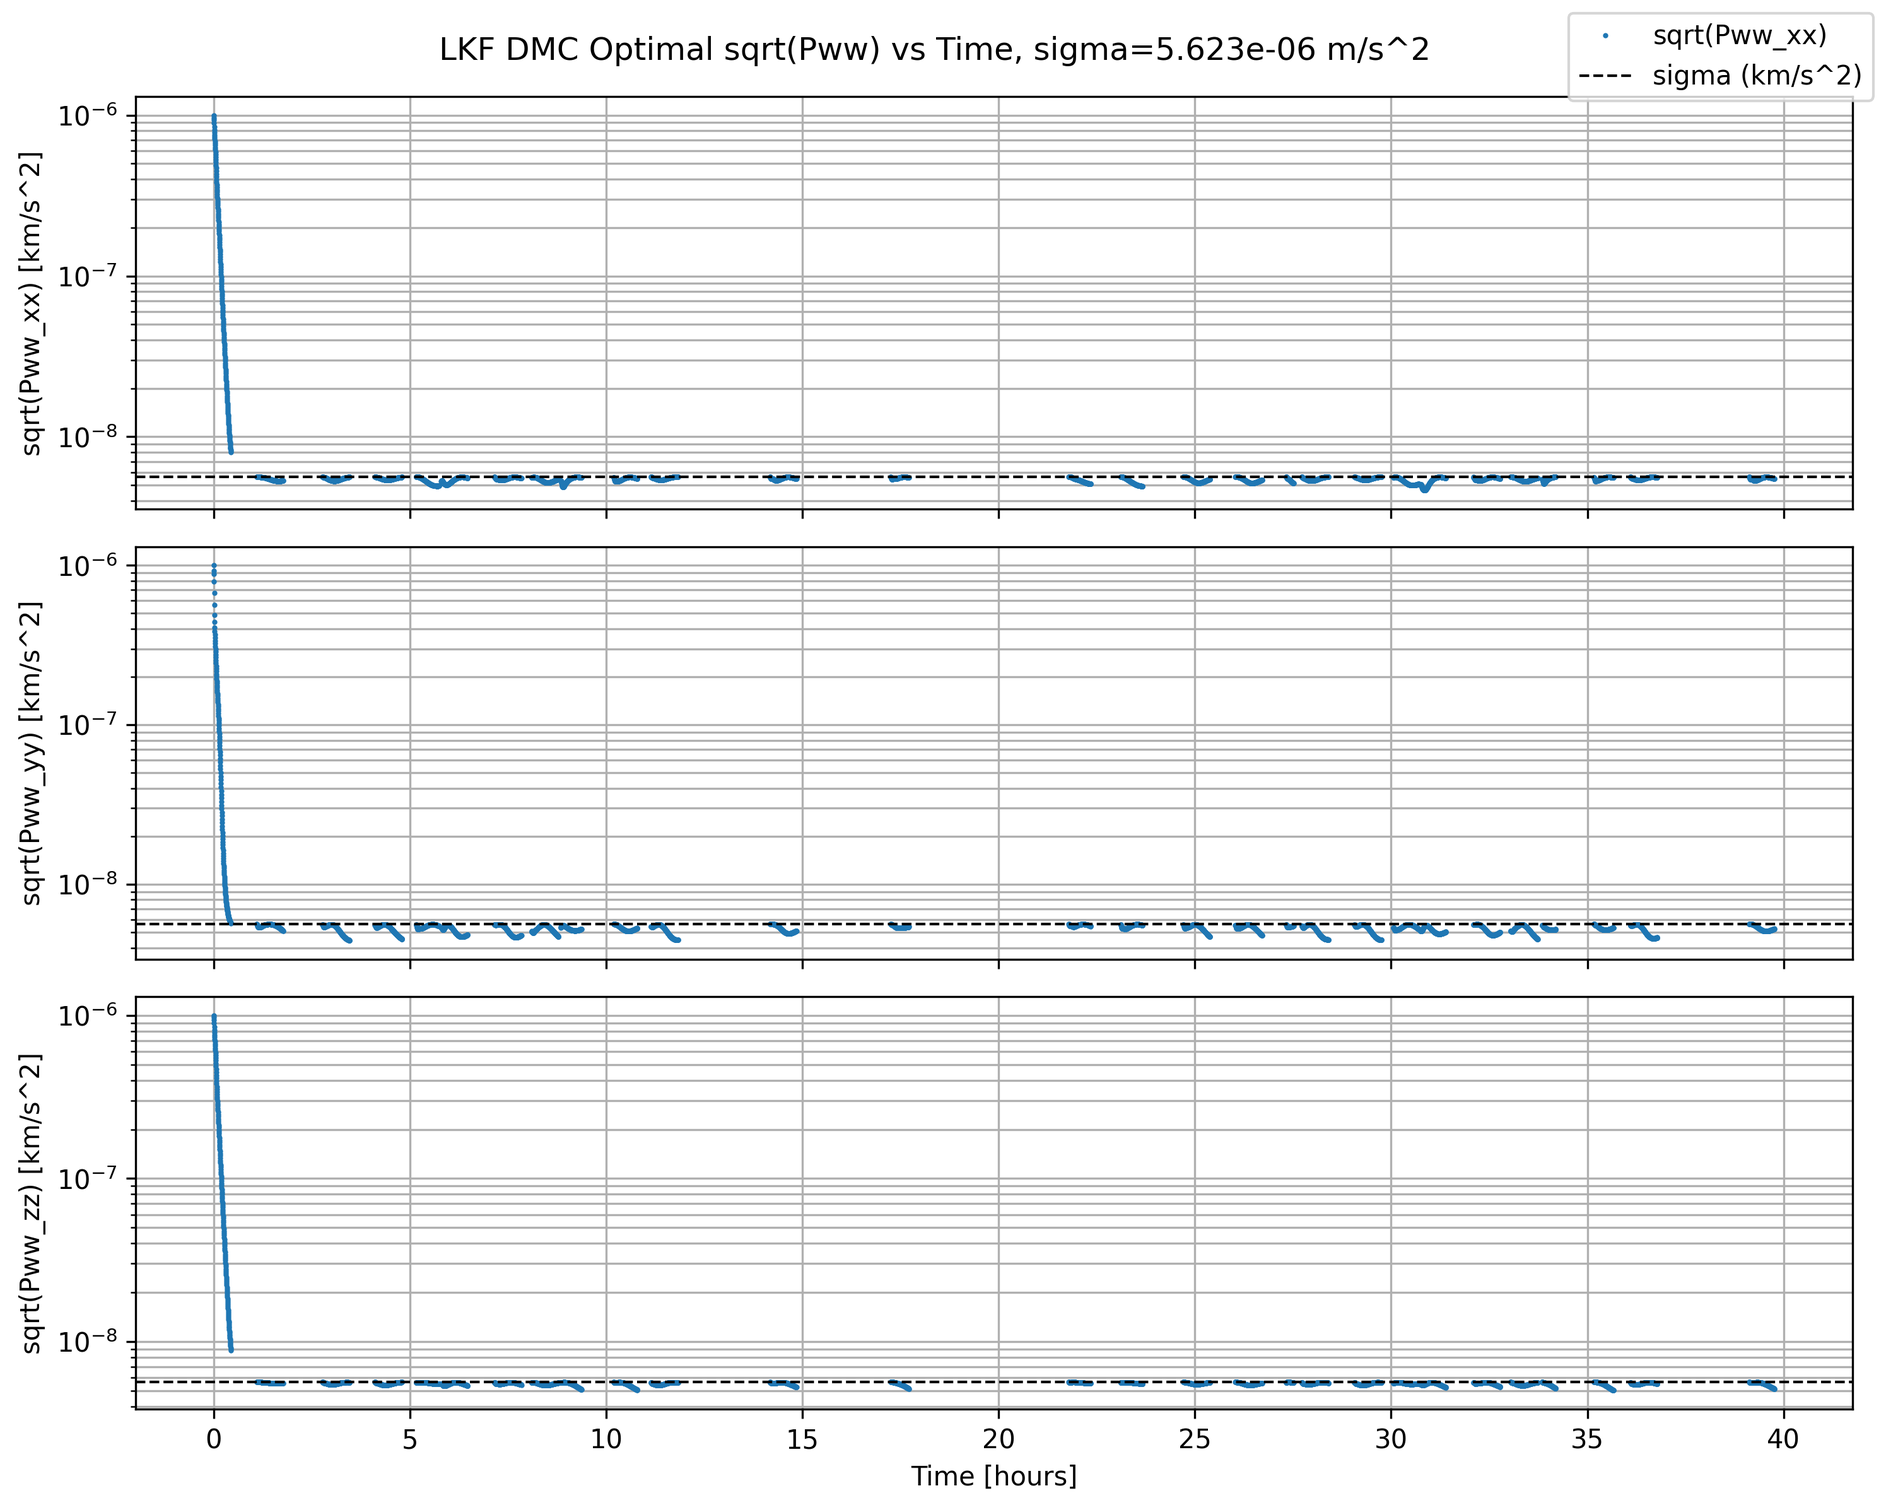
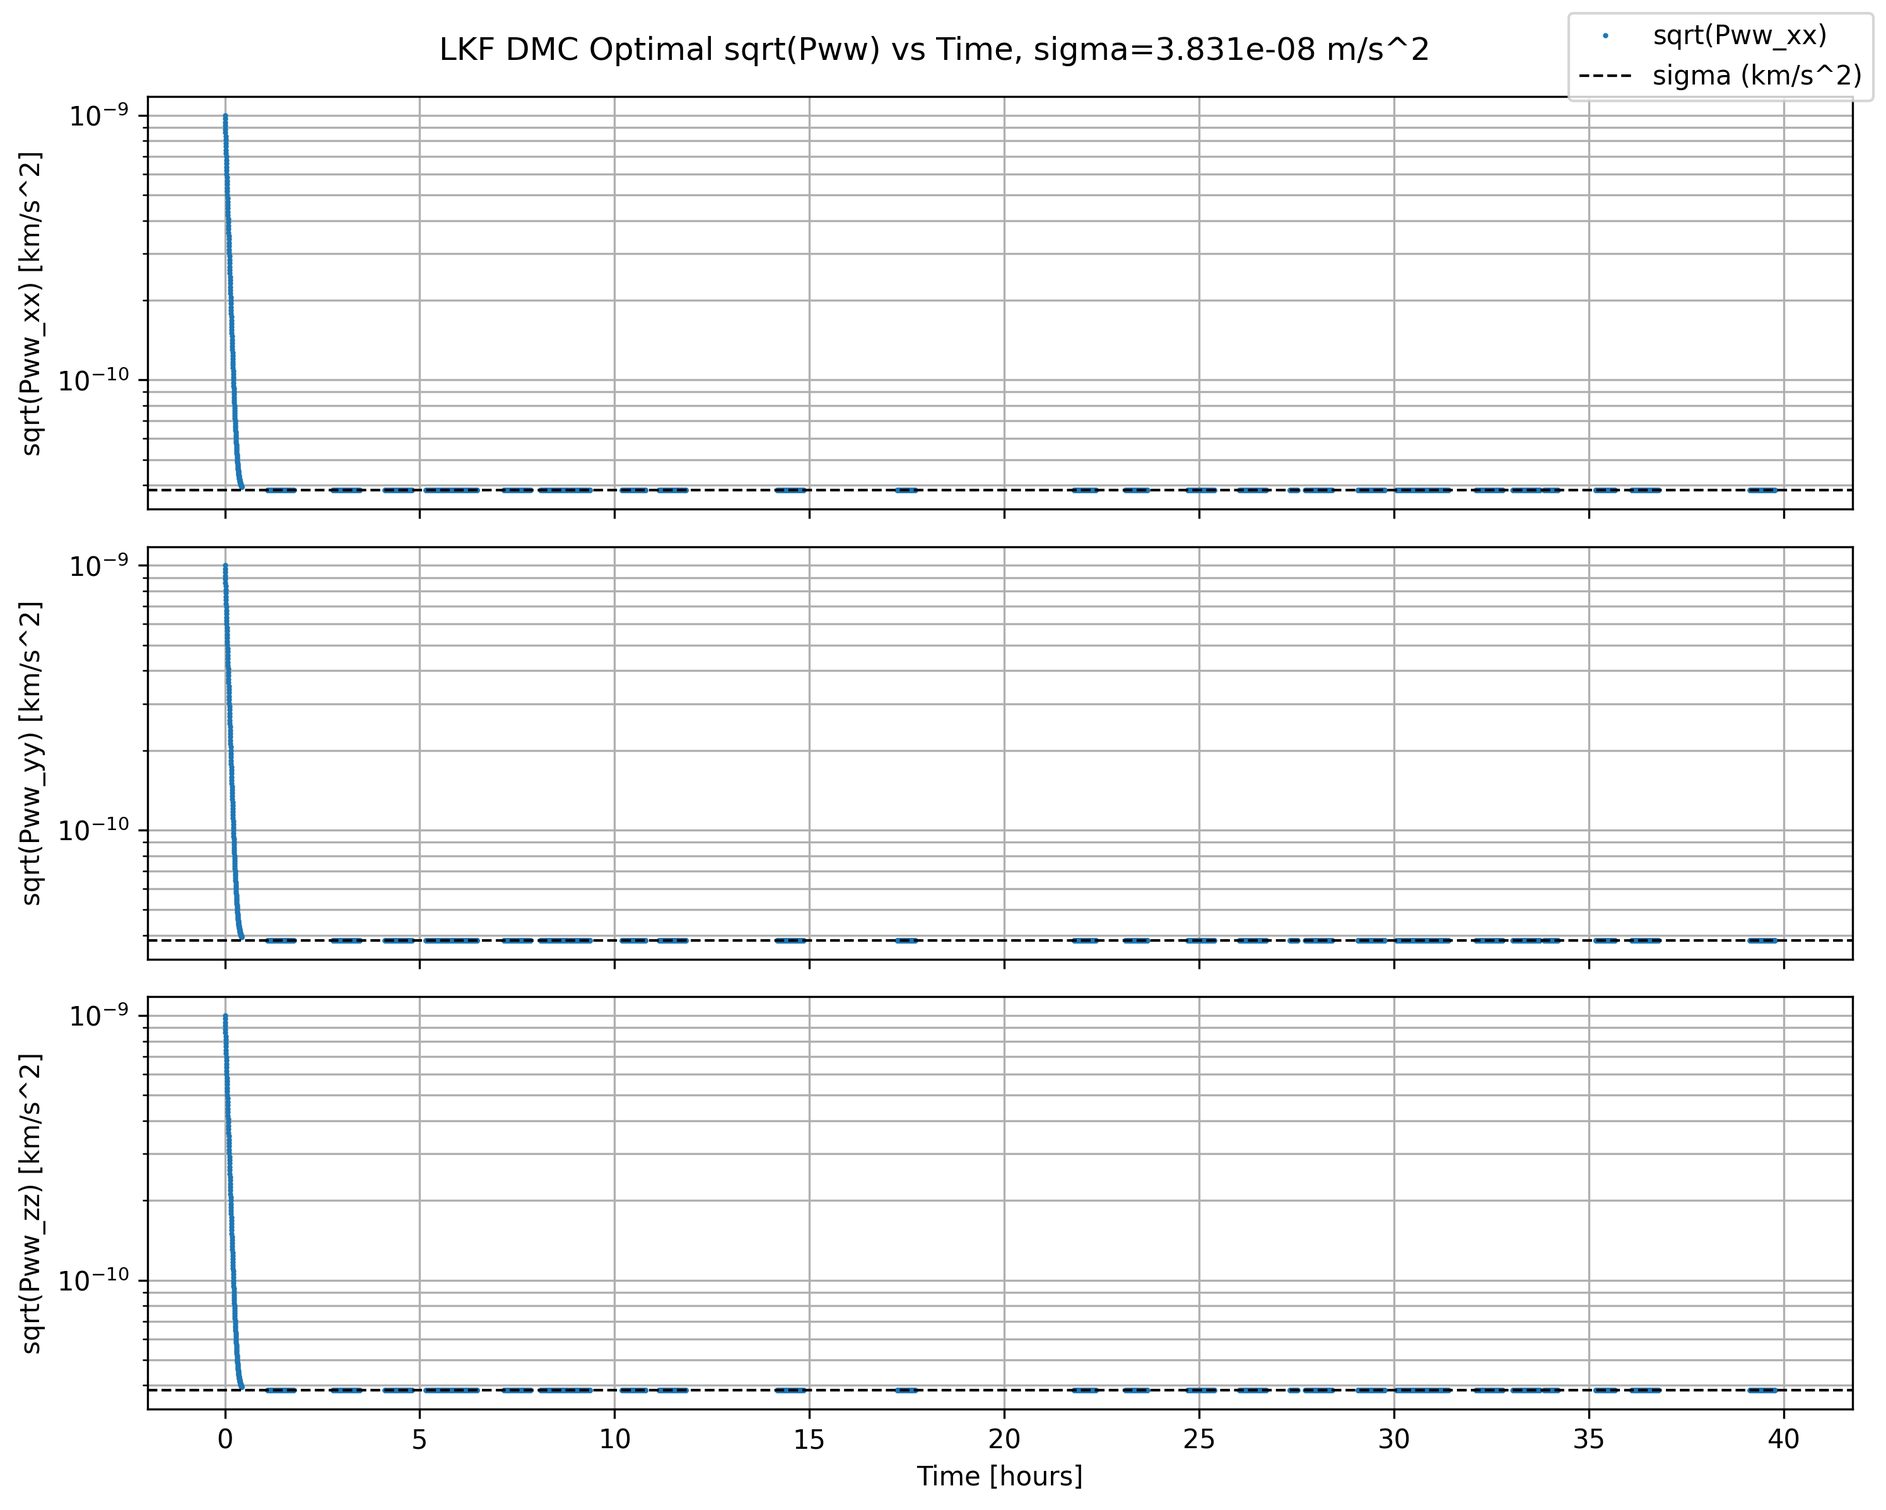
EKF be lookin noisy dawg

Changed region(s): [[0.0311, 0.3709, 0.9953, 0.9891], [0.0311, 0.0618, 0.9953, 0.34]]

diff --git a/Homework/Homework3/ekf_dmc.py b/Homework/Homework3/ekf_dmc.py
@@ -10,6 +10,7 @@ import pandas as pd
 sys.path.append("../../")
 
 from src.Functions.dmc import ekf_with_dmc
+from src.Functions.jacobians import accel_wJ2J3
 from src.Functions.kep2cart import Keplarian_to_Cartesian
 from src.Functions.stations import Stations
 
@@ -65,19 +66,6 @@ def load_problem2_inputs(mu_km3_s2: float):
         Xtrue_meas = truth_aligned[["x_km", "y_km", "z_km", "vx_km_s", "vy_km_s", "vz_km_s"]].to_numpy(float)
     else:
         Xtrue_meas = np.column_stack([np.interp(t_meas, truth_times, truth_states[:, k]) for k in range(6)])
-
-    # Match HW2 problem setup.
-    r0_true, v0_true, _ = Keplarian_to_Cartesian(
-        mu_km3_s2,
-        10000.0,
-        0.001,
-        40.0,
-        80.0,
-        40.0,
-        0.0,
-    )
-    x0_true = np.hstack((r0_true, v0_true))
-
     stations = build_stations()
 
     sigma_rho_km = 1.0e-3
@@ -102,6 +90,8 @@ def load_problem2_inputs(mu_km3_s2: float):
     )
 
     dx = np.array([0.1, -0.03, 0.25, 0.3e-3, -0.5e-3, 0.2e-3], dtype=float)
+    x0_true = truth_states[0, :]
+
     x0_hat = x0_true + dx
 
     return all_meas, Xtrue_meas, stations, R, P0, x0_hat, x0_true
@@ -115,6 +105,50 @@ def initial_orbit_period_s(x0_6: np.ndarray, mu_km3_s2: float) -> float:
     eps = 0.5 * vmag * vmag - float(mu_km3_s2) / rmag
     a = -float(mu_km3_s2) / (2.0 * eps)
     return float(2.0 * np.pi * np.sqrt(a**3 / float(mu_km3_s2)))
+
+
+def compute_w_ref_from_truth(Xtrue_meas: np.ndarray, mu: float, J2: float, J3: float, Re: float = 6378.0) -> np.ndarray:
+    Xtrue_meas = np.asarray(Xtrue_meas, dtype=float)
+    w_ref = np.zeros((Xtrue_meas.shape[0], 3), dtype=float)
+    for k in range(Xtrue_meas.shape[0]):
+        r = Xtrue_meas[k, 0:3]
+        a_truth = accel_wJ2J3(r, mu, J2, J3, Re=Re, j2=True, j3=True)
+        a_filter = accel_wJ2J3(r, mu, J2, 0.0, Re=Re, j2=True, j3=False)
+        w_ref[k, :] = a_truth - a_filter
+    return w_ref
+
+
+def load_w_ref_from_csv(csv_path: Path, t_target: np.ndarray) -> np.ndarray | None:
+    if not csv_path.exists():
+        return None
+    df = pd.read_csv(csv_path)
+    if df.empty:
+        return None
+
+    time_candidates = ["t_s", "t", "time_s", "time", "Time(s)"]
+    comp_candidates = [
+        ["wx_km_s2", "wy_km_s2", "wz_km_s2"],
+        ["w_x_km_s2", "w_y_km_s2", "w_z_km_s2"],
+        ["wx", "wy", "wz"],
+        ["w_x", "w_y", "w_z"],
+        ["ax_km_s2", "ay_km_s2", "az_km_s2"],
+        ["ax", "ay", "az"],
+    ]
+
+    t_col = next((c for c in time_candidates if c in df.columns), None)
+    if t_col is None:
+        return None
+    comp_cols = next((cols for cols in comp_candidates if all(c in df.columns for c in cols)), None)
+    if comp_cols is None:
+        return None
+
+    t_src = df[t_col].to_numpy(float)
+    w_src = df[comp_cols].to_numpy(float)
+    if len(t_src) < 2:
+        return None
+
+    w_ref = np.column_stack([np.interp(t_target, t_src, w_src[:, i]) for i in range(3)])
+    return np.asarray(w_ref, dtype=float)
 
 
 def compute_metrics(out: dict) -> dict:
@@ -166,7 +200,14 @@ def make_sweep_plots(summary_df: pd.DataFrame, outdir: Path, opt_sigma_m_s2: flo
     plt.close(fig)
 
 
-def make_optimal_plots(out: dict, outdir: Path, R: np.ndarray, sigma_opt_m_s2: float, tau_s: float) -> None:
+def make_optimal_plots(
+    out: dict,
+    outdir: Path,
+    R: np.ndarray,
+    sigma_opt_m_s2: float,
+    tau_s: float,
+    w_ref_km_s2: np.ndarray | None = None,
+) -> None:
     t_hr = np.asarray(out["t_meas"], dtype=float) / 3600.0
     err = np.asarray(out["state_error_meas"], dtype=float)
     P = np.asarray(out["P_meas"], dtype=float)
@@ -252,6 +293,8 @@ def make_optimal_plots(out: dict, outdir: Path, R: np.ndarray, sigma_opt_m_s2: f
         fig, axs = plt.subplots(3, 1, figsize=(10, 8), sharex=True)
         for i in range(3):
             axs[i].plot(t_hr, w_hat[:, i], ".", markersize=2, label="w_hat")
+            if w_ref_km_s2 is not None and np.asarray(w_ref_km_s2).shape == w_hat.shape:
+                axs[i].plot(t_hr, w_ref_km_s2[:, i], "k", linewidth=1.0, label="J3 accel ref")
             axs[i].plot(t_hr, w_sig3[:, i], "r", linewidth=1.0, label="+3sigma")
             axs[i].plot(t_hr, -w_sig3[:, i], "r", linewidth=1.0, label="-3sigma")
             axs[i].set_ylabel(f"{w_labels[i]} [km/s^2]")
@@ -272,6 +315,8 @@ def make_optimal_plots(out: dict, outdir: Path, R: np.ndarray, sigma_opt_m_s2: f
             fig, axs = plt.subplots(3, 1, figsize=(10, 8), sharex=True)
             for i in range(3):
                 axs[i].plot(t_hr_w, w_hat_w[:, i], ".", markersize=2, label="w_hat")
+                if w_ref_km_s2 is not None and np.asarray(w_ref_km_s2).shape == w_hat.shape:
+                    axs[i].plot(t_hr_w, w_ref_km_s2[mask_w, i], "k", linewidth=1.0, label="J3 accel ref")
                 axs[i].plot(t_hr_w, w_sig3_w[:, i], "r", linewidth=1.0, label="+3sigma")
                 axs[i].plot(t_hr_w, -w_sig3_w[:, i], "r", linewidth=1.0, label="-3sigma")
                 axs[i].set_ylabel(f"{w_labels[i]} [km/s^2]")
@@ -312,24 +357,6 @@ def make_optimal_plots(out: dict, outdir: Path, R: np.ndarray, sigma_opt_m_s2: f
         fig.suptitle(f"EKF DMC Optimal Pww vs Time, sigma={sigma_opt_m_s2:.3e} m/s^2")
         fig.tight_layout()
         fig.savefig(diag_dir / "ekf_dmc_optimal_pww_vs_time.png", dpi=300, bbox_inches="tight")
-        plt.close(fig)
-
-        # sqrt(Pww) should be on the same units as acceleration sigma.
-        sqrt_pww = np.sqrt(pww)
-        sigma_km_s2 = float(sigma_opt_m_s2) * 1.0e-3
-        s_labels = ["sqrt(Pww_xx)", "sqrt(Pww_yy)", "sqrt(Pww_zz)"]
-        fig, axs = plt.subplots(3, 1, figsize=(10, 8), sharex=True)
-        for i in range(3):
-            axs[i].semilogy(t_hr, np.maximum(sqrt_pww[:, i], 1.0e-30), ".", markersize=2, label=s_labels[i])
-            axs[i].axhline(sigma_km_s2, color="k", linestyle="--", linewidth=1.0, label="sigma (km/s^2)")
-            axs[i].set_ylabel(f"{s_labels[i]} [km/s^2]")
-            axs[i].grid(True, which="both")
-        axs[-1].set_xlabel("Time [hours]")
-        handles, leglabels = axs[0].get_legend_handles_labels()
-        fig.legend(handles, leglabels, loc="upper right")
-        fig.suptitle(f"EKF DMC Optimal sqrt(Pww) vs Time, sigma={sigma_opt_m_s2:.3e} m/s^2")
-        fig.tight_layout()
-        fig.savefig(diag_dir / "ekf_dmc_optimal_sqrt_pww_vs_time.png", dpi=300, bbox_inches="tight")
         plt.close(fig)
 
 
@@ -421,7 +448,30 @@ def main():
     out_opt = out_by_sigma[sigma_opt_m_s2]
     opt_dir = plot_dir / "Optimal"
     opt_dir.mkdir(parents=True, exist_ok=True)
-    make_optimal_plots(out_opt, opt_dir, R, sigma_opt_m_s2, tau_s)
+    t_opt = np.asarray(out_opt["t_meas"], dtype=float)
+
+    w_ref = None
+    csv_candidates = [
+        Path("../Homework2/j3_accel_reference.csv"),
+        Path("../Homework2/j3_accel.csv"),
+        Path("../Homework2/meas_data/j3_accel_reference.csv"),
+        Path("../Homework2/meas_data/prob2_j3_accel.csv"),
+    ]
+    for cpath in csv_candidates:
+        w_ref = load_w_ref_from_csv(cpath, t_opt)
+        if w_ref is not None:
+            print(f"Using J3 acceleration overlay CSV: {cpath}")
+            break
+    if w_ref is None:
+        w_ref_all = compute_w_ref_from_truth(Xtrue_meas, mu=mu, J2=J2, J3=J3)
+        if w_ref_all.shape[0] == t_opt.shape[0]:
+            w_ref = w_ref_all
+        else:
+            t_all = np.array([float(m["t"]) for m in all_meas], dtype=float)
+            w_ref = np.column_stack([np.interp(t_opt, t_all, w_ref_all[:, i]) for i in range(3)])
+        print("J3 acceleration overlay CSV not found; using model-difference reference from truth states.")
+
+    make_optimal_plots(out_opt, opt_dir, R, sigma_opt_m_s2, tau_s, w_ref_km_s2=w_ref)
 
     print(f"Initial orbit period used for tau: P = {period_s:.3f} s")
     print(f"DMC tau = P/30 = {tau_s:.3f} s")

diff --git a/Homework/Homework3/lkf_dmc.py b/Homework/Homework3/lkf_dmc.py
@@ -10,6 +10,7 @@ import pandas as pd
 sys.path.append("../../")
 
 from src.Functions.dmc import lkf_with_dmc
+from src.Functions.jacobians import accel_wJ2J3
 from src.Functions.stations import Stations
 
 
@@ -70,7 +71,7 @@ def load_problem2_inputs():
 
     sigma_r0_km = 1.0
     sigma_v0_km_s = 1.0e-3
-    sigma_w0_km_s2 = 1.0e-6
+    sigma_w0_km_s2 = 1.0e-9
     P0 = np.diag(
         [
             sigma_r0_km**2,
@@ -99,6 +100,50 @@ def initial_orbit_period_s(x0_6: np.ndarray, mu_km3_s2: float) -> float:
     eps = 0.5 * vmag * vmag - float(mu_km3_s2) / rmag
     a = -float(mu_km3_s2) / (2.0 * eps)
     return float(2.0 * np.pi * np.sqrt(a**3 / float(mu_km3_s2)))
+
+
+def compute_w_ref_from_truth(Xtrue_meas: np.ndarray, mu: float, J2: float, J3: float, Re: float = 6378.0) -> np.ndarray:
+    Xtrue_meas = np.asarray(Xtrue_meas, dtype=float)
+    w_ref = np.zeros((Xtrue_meas.shape[0], 3), dtype=float)
+    for k in range(Xtrue_meas.shape[0]):
+        r = Xtrue_meas[k, 0:3]
+        a_truth = accel_wJ2J3(r, mu, J2, J3, Re=Re, j2=True, j3=True)
+        a_filter = accel_wJ2J3(r, mu, J2, 0.0, Re=Re, j2=True, j3=False)
+        w_ref[k, :] = a_truth - a_filter
+    return w_ref
+
+
+def load_w_ref_from_csv(csv_path: Path, t_target: np.ndarray) -> np.ndarray | None:
+    if not csv_path.exists():
+        return None
+    df = pd.read_csv(csv_path)
+    if df.empty:
+        return None
+
+    time_candidates = ["t_s", "t", "time_s", "time", "Time(s)"]
+    comp_candidates = [
+        ["wx_km_s2", "wy_km_s2", "wz_km_s2"],
+        ["w_x_km_s2", "w_y_km_s2", "w_z_km_s2"],
+        ["wx", "wy", "wz"],
+        ["w_x", "w_y", "w_z"],
+        ["ax_km_s2", "ay_km_s2", "az_km_s2"],
+        ["ax", "ay", "az"],
+    ]
+
+    t_col = next((c for c in time_candidates if c in df.columns), None)
+    if t_col is None:
+        return None
+    comp_cols = next((cols for cols in comp_candidates if all(c in df.columns for c in cols)), None)
+    if comp_cols is None:
+        return None
+
+    t_src = df[t_col].to_numpy(float)
+    w_src = df[comp_cols].to_numpy(float)
+    if len(t_src) < 2:
+        return None
+
+    w_ref = np.column_stack([np.interp(t_target, t_src, w_src[:, i]) for i in range(3)])
+    return np.asarray(w_ref, dtype=float)
 
 
 def compute_metrics(out: dict) -> dict:
@@ -150,7 +195,14 @@ def make_sweep_plots(summary_df: pd.DataFrame, outdir: Path, opt_sigma_m_s2: flo
     plt.close(fig)
 
 
-def make_optimal_plots(out: dict, outdir: Path, R: np.ndarray, sigma_opt_m_s2: float, tau_s: float) -> None:
+def make_optimal_plots(
+    out: dict,
+    outdir: Path,
+    R: np.ndarray,
+    sigma_opt_m_s2: float,
+    tau_s: float,
+    w_ref_km_s2: np.ndarray | None = None,
+) -> None:
     t_hr = np.asarray(out["t_meas"], dtype=float) / 3600.0
     err = np.asarray(out["state_error_meas"], dtype=float)
     P = np.asarray(out["P_meas"], dtype=float)
@@ -236,6 +288,8 @@ def make_optimal_plots(out: dict, outdir: Path, R: np.ndarray, sigma_opt_m_s2: f
         fig, axs = plt.subplots(3, 1, figsize=(10, 8), sharex=True)
         for i in range(3):
             axs[i].plot(t_hr, w_hat[:, i], ".", markersize=2, label="w_hat")
+            if w_ref_km_s2 is not None and np.asarray(w_ref_km_s2).shape == w_hat.shape:
+                axs[i].plot(t_hr, w_ref_km_s2[:, i], "k", linewidth=1.0, label="J3 accel ref")
             axs[i].plot(t_hr, w_sig3[:, i], "r", linewidth=1.0, label="+3sigma")
             axs[i].plot(t_hr, -w_sig3[:, i], "r", linewidth=1.0, label="-3sigma")
             axs[i].set_ylabel(f"{w_labels[i]} [km/s^2]")
@@ -256,6 +310,8 @@ def make_optimal_plots(out: dict, outdir: Path, R: np.ndarray, sigma_opt_m_s2: f
             fig, axs = plt.subplots(3, 1, figsize=(10, 8), sharex=True)
             for i in range(3):
                 axs[i].plot(t_hr_w, w_hat_w[:, i], ".", markersize=2, label="w_hat")
+                if w_ref_km_s2 is not None and np.asarray(w_ref_km_s2).shape == w_hat.shape:
+                    axs[i].plot(t_hr_w, w_ref_km_s2[mask_w, i], "k", linewidth=1.0, label="J3 accel ref")
                 axs[i].plot(t_hr_w, w_sig3_w[:, i], "r", linewidth=1.0, label="+3sigma")
                 axs[i].plot(t_hr_w, -w_sig3_w[:, i], "r", linewidth=1.0, label="-3sigma")
                 axs[i].set_ylabel(f"{w_labels[i]} [km/s^2]")
@@ -296,24 +352,6 @@ def make_optimal_plots(out: dict, outdir: Path, R: np.ndarray, sigma_opt_m_s2: f
         fig.suptitle(f"LKF DMC Optimal Pww vs Time, sigma={sigma_opt_m_s2:.3e} m/s^2")
         fig.tight_layout()
         fig.savefig(diag_dir / "lkf_dmc_optimal_pww_vs_time.png", dpi=300, bbox_inches="tight")
-        plt.close(fig)
-
-        # sqrt(Pww) should be on the same units as acceleration sigma.
-        sqrt_pww = np.sqrt(pww)
-        sigma_km_s2 = float(sigma_opt_m_s2) * 1.0e-3
-        s_labels = ["sqrt(Pww_xx)", "sqrt(Pww_yy)", "sqrt(Pww_zz)"]
-        fig, axs = plt.subplots(3, 1, figsize=(10, 8), sharex=True)
-        for i in range(3):
-            axs[i].semilogy(t_hr, np.maximum(sqrt_pww[:, i], 1.0e-30), ".", markersize=2, label=s_labels[i])
-            axs[i].axhline(sigma_km_s2, color="k", linestyle="--", linewidth=1.0, label="sigma (km/s^2)")
-            axs[i].set_ylabel(f"{s_labels[i]} [km/s^2]")
-            axs[i].grid(True, which="both")
-        axs[-1].set_xlabel("Time [hours]")
-        handles, leglabels = axs[0].get_legend_handles_labels()
-        fig.legend(handles, leglabels, loc="upper right")
-        fig.suptitle(f"LKF DMC Optimal sqrt(Pww) vs Time, sigma={sigma_opt_m_s2:.3e} m/s^2")
-        fig.tight_layout()
-        fig.savefig(diag_dir / "lkf_dmc_optimal_sqrt_pww_vs_time.png", dpi=300, bbox_inches="tight")
         plt.close(fig)
 
 
@@ -396,7 +434,32 @@ def main():
     out_opt = out_by_sigma[sigma_opt_m_s2]
     opt_dir = plot_dir / "Optimal"
     opt_dir.mkdir(parents=True, exist_ok=True)
-    make_optimal_plots(out_opt, opt_dir, R, sigma_opt_m_s2, tau_s)
+    t_opt = np.asarray(out_opt["t_meas"], dtype=float)
+
+    # Prefer user-saved J3 acceleration CSV if present; otherwise compute from truth states.
+    w_ref = None
+    csv_candidates = [
+        Path("../Homework2/j3_accel_reference.csv"),
+        Path("../Homework2/j3_accel.csv"),
+        Path("../Homework2/meas_data/j3_accel_reference.csv"),
+        Path("../Homework2/meas_data/prob2_j3_accel.csv"),
+    ]
+    for cpath in csv_candidates:
+        w_ref = load_w_ref_from_csv(cpath, t_opt)
+        if w_ref is not None:
+            print(f"Using J3 acceleration overlay CSV: {cpath}")
+            break
+    if w_ref is None:
+        w_ref_all = compute_w_ref_from_truth(Xtrue_meas, mu=mu, J2=J2, J3=J3)
+        if w_ref_all.shape[0] == t_opt.shape[0]:
+            w_ref = w_ref_all
+        else:
+            # Safety: if lengths mismatch, interpolate from measurement times.
+            t_all = np.array([float(m["t"]) for m in all_meas], dtype=float)
+            w_ref = np.column_stack([np.interp(t_opt, t_all, w_ref_all[:, i]) for i in range(3)])
+        print("J3 acceleration overlay CSV not found; using model-difference reference from truth states.")
+
+    make_optimal_plots(out_opt, opt_dir, R, sigma_opt_m_s2, tau_s, w_ref_km_s2=w_ref)
 
     print(f"Initial orbit period used for tau: P = {period_s:.3f} s")
     print(f"DMC tau = P/30 = {tau_s:.3f} s")

diff --git a/src/Functions/jacobians.py b/src/Functions/jacobians.py
@@ -215,28 +215,27 @@ def orbit_propagator_aug9(t, X9, Re=6378, j2=True, j3=True):
 
 def stm(t, state9: np.ndarray, phi: np.ndarray, rows_col_to_remove: np.ndarray, Re=6378, j2=True, j3=True):
 
-    '''Removed the rows and columns as needed
-       Flatten remaing matrSTMix into a colums for propagation
-       
-       A is the full 9x9 STM with dr, dv, dmu, dj2 and dj3
-       Rows and columns to remove indicate the states being removed from the full STM'''
+    '''Build the 6x6 A-matrix directly (rows_col_to_remove is always [6,7,8])
+       rather than building 9x9 and calling np.delete on every integrator step.'''
+    state9 = np.asarray(state9, dtype=float).reshape(-1)
     mu = state9[6]
     J2 = state9[7]
     J3 = state9[8]
-    A = state_builder(state9, Re=Re, j2=j2, j3=j3)
-    new_matrix = np.delete(A, rows_col_to_remove, axis=1)
-    A_new = np.delete(new_matrix, rows_col_to_remove, axis = 0)
+    r  = state9[0:3]
+    v  = state9[3:6]
+
+    # Build 6x6 A directly - no 9x9 allocation, no np.delete
+    G = dadr_wJ2J3(r, mu, J2, J3, Re=Re, j2=j2, j3=j3)   # 3x3 gravity gradient
+    a = accel_wJ2J3(r, mu, J2, J3, Re=Re, j2=j2, j3=j3)  # 3-vec acceleration
+
+    A_new = np.zeros((6, 6), dtype=float)
+    A_new[0:3, 3:6] = np.eye(3)   # dr/dt = v
+    A_new[3:6, 0:3] = G           # dv/dt = G * dr
+
     phi_dot = A_new @ phi
+    dxdt = np.hstack((v, a, 0.0, 0.0, 0.0))
 
-    r = state9[0:3]
-    v = state9[3:6]
-
-    # A[3:6, 6] == da_dmu == a/mu, so recover 'a' without a second accel call
-    a = A[3:6, 6] * mu
-    dxdt = np.hstack((v, a, 0, 0, 0))
-    phi_dot_flat = phi_dot.flatten()
-
-    return np.hstack((dxdt, phi_dot_flat))
+    return np.hstack((dxdt, phi_dot.reshape(-1)))
 
 
 ##### PROJ 1 Addons #####
